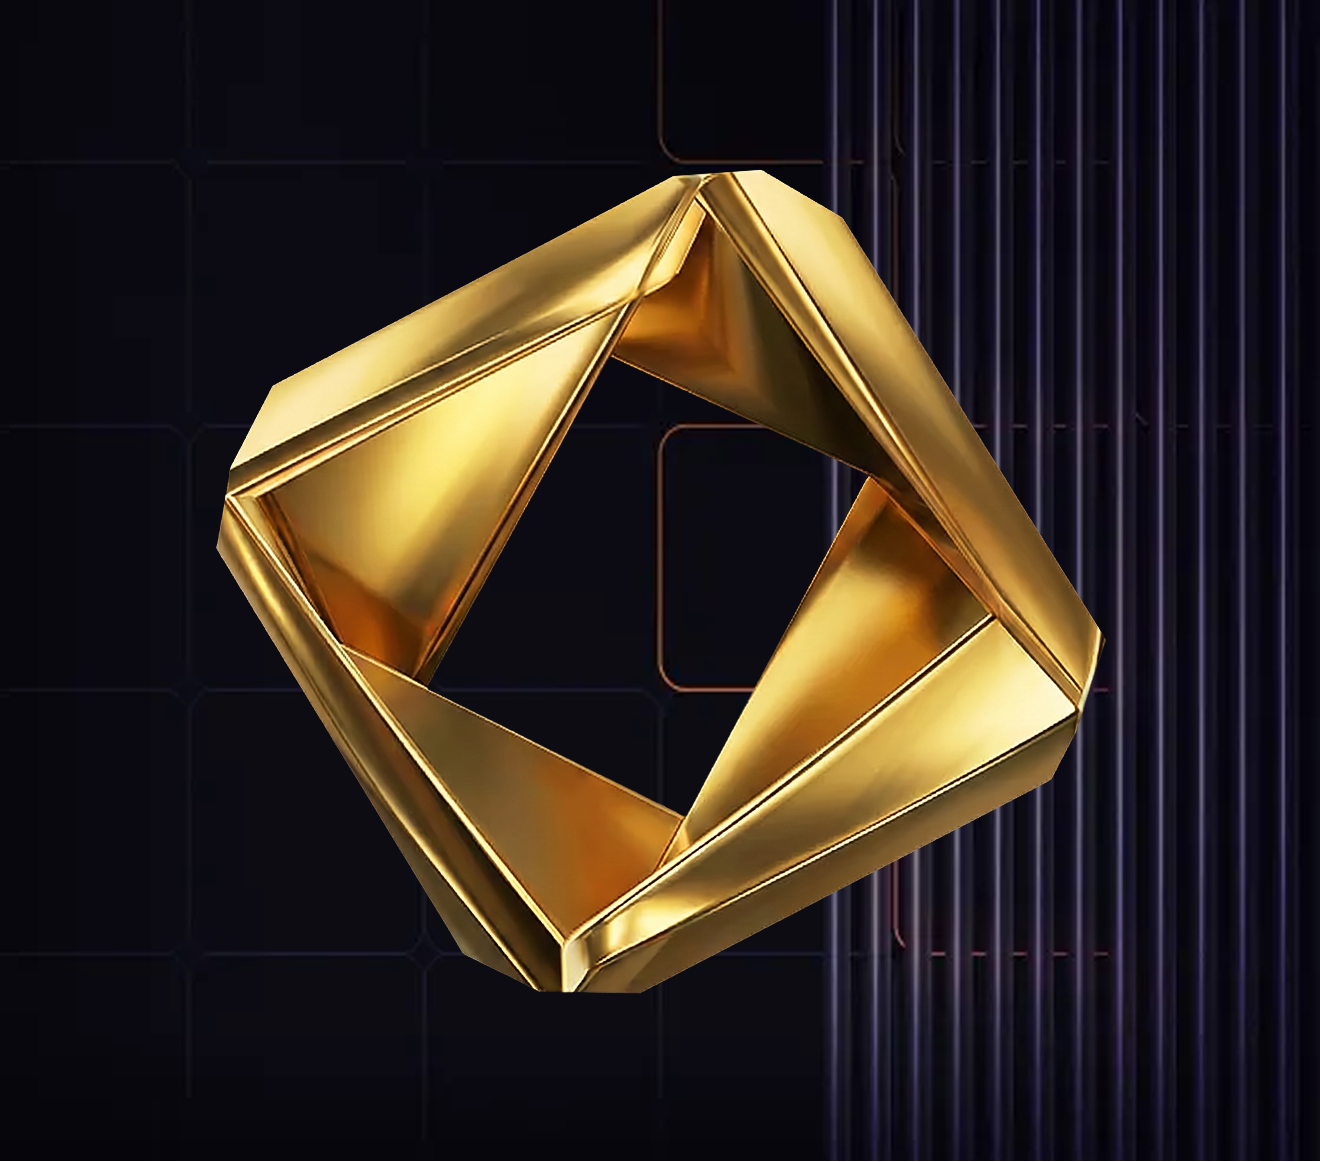
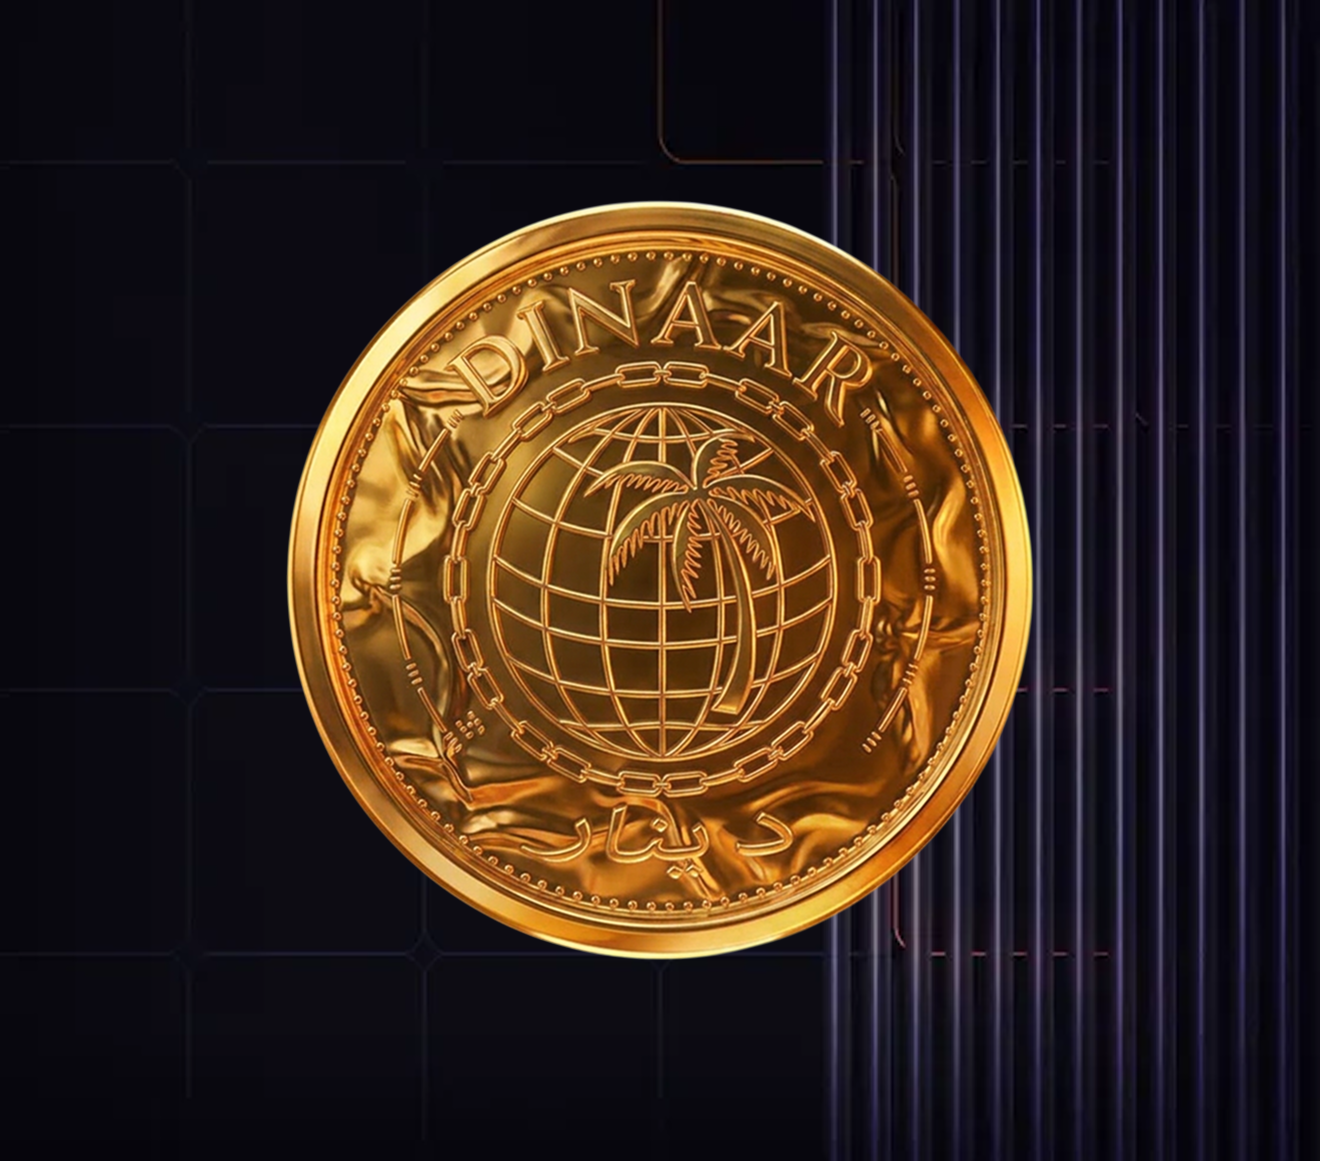
solve issue client shared pdf

Changed region(s): [[0.1553, 0.1239, 0.8386, 0.8675]]

diff --git a/assests/css/style.css b/assests/css/style.css
@@ -3633,7 +3633,7 @@ figure {
 
 .primary-button-hover-text {
     position: absolute;
-    margin-left: -30px;
+    /* margin-left: -30px; */
 }
 
 .line {
@@ -9633,9 +9633,9 @@ figure {
     -webkit-background-clip: text;
     background-clip: text;
     margin-bottom: 30px;
-    font-size: 80px;
+    font-size: 60px;
     font-weight: 500;
-    line-height: 90px;
+    line-height: 69px;
     display: inline-block;
 }
 
@@ -12348,6 +12348,23 @@ figure {
     }
 }
 
+@media screen and (max-width: 768px) {
+    .about-owner-section {
+        flex-direction: column;
+    }
+
+     .secont-bio{
+        text-align: left;
+    }
+
+    .about-owner-section.second  {
+        flex-direction: column-reverse;
+    }
+        .about-owner-section img {
+        max-height: 300px;
+    }
+}
+
 @media screen and (max-width: 767px) {
     h1 {
         letter-spacing: -2px;
@@ -12415,9 +12432,7 @@ figure {
         /* padding-bottom: 80px; */
     }
 
-    .about-owner-section {
-        flex-direction: column;
-    }
+    
 
     .section.features-hv2 {
         padding-top: 80px;
@@ -14021,6 +14036,10 @@ figure {
         margin-bottom: 16px;
         font-size: 32px;
         line-height: 42px;
+    }
+
+    .secont-bio{
+        text-align: left;
     }
 
     .single-history-wrap {

diff --git a/index.html b/index.html
@@ -67,7 +67,7 @@
                     <div class="navbar-button-wrapper">
 
                         <div class="primary-button-wrapper desktop">
-                            <a href="#" data-w-id="3af1c84f-ff74-c014-cb3b-40446b73b1f6"
+                            <a href="/token-economy.html#how-works" data-w-id="3af1c84f-ff74-c014-cb3b-40446b73b1f6"
                                 class="primary-button w-inline-block">
                                 <div class="primary-button-border-wrap">
                                     <div class="primary-button-wrap">
@@ -131,7 +131,8 @@
                                         </div>
                                         <div class="home-banner-button-wrapper">
                                             <div class="primary-button-wrapper desktop">
-                                                <a href="#" data-w-id="3af1c84f-ff74-c014-cb3b-40446b73b1f6"
+                                                <a href="/token-economy.html"
+                                                    data-w-id="3af1c84f-ff74-c014-cb3b-40446b73b1f6"
                                                     class="primary-button w-inline-block">
                                                     <div class="primary-button-border-wrap">
                                                         <div class="primary-button-wrap">
@@ -172,7 +173,8 @@
                                             </div>
                                             <div class="banner-hv2-button-wrapper">
                                                 <div class="primary-button-wrapper">
-                                                    <a href="#" class="inner-button w-inline-block">
+                                                    <a href="/token-economy.html#how-works"
+                                                        class="inner-button w-inline-block">
                                                         <div class="primary-button-border-wrap">
                                                             <div class="inner-button-wrap">
                                                                 <div class="inner-button-text-wrap">
@@ -449,7 +451,7 @@
                         alt="dinnar" class="solving-card-icon" /></div>
                 <div class="solving-card-title-description">
                     <h4 class="solving-card-title">Dinaar Coin</h4>
-                    <p class="coin-box-price-text-green">$0.00822
+                    <p class="coin-box-price-text-green">$144.1044
                     </p>
                 </div>
                 <img src="https://cdn.prod.website-files.com/67d5482886ed2b38b65e6d7c/67d671e683c0ed0c6c685aed_CTA%20Top%20Left%20Element.svg"
@@ -463,7 +465,7 @@
                         class="solving-card-icon" /></div>
                 <div class="solving-card-title-description">
                     <h4 class="solving-card-title">Saya Coin</h4>
-                    <p class="coin-box-price-text-red">$0.00822
+                    <p class="coin-box-price-text-red">$0.1065
                     </p>
                 </div>
                 <img src="https://cdn.prod.website-files.com/67d5482886ed2b38b65e6d7c/67d671e683c0ed0c6c685aed_CTA%20Top%20Left%20Element.svg"
@@ -688,7 +690,7 @@
                             </div>
                             <div class="technology-card-link-block-wrap">
                                 <a data-w-id="5a6e6f53-7d46-84ae-37e1-eea87616bd8d" style="color:rgb(255,255,255)"
-                                    href="#" class="technology-card-link-block w-inline-block">
+                                    href="/token-economy.html" class="technology-card-link-block w-inline-block">
                                     <div style="border-color:rgb(255,255,255)" class="technology-card-link-block-name">
                                         View Token Economy
                                     </div>
@@ -723,7 +725,7 @@
                             </div>
                             <div class="technology-card-link-block-wrap">
                                 <a data-w-id="be800819-9115-04a6-5935-16d78a8dfe3c" style="color:rgb(255,255,255)"
-                                    href="#" class="technology-card-link-block w-inline-block">
+                                    href="/token-economy.html" class="technology-card-link-block w-inline-block">
                                     <div style="border-color:rgb(255,255,255)" class="technology-card-link-block-name">
                                         View Token Economy
                                     </div>
@@ -973,9 +975,8 @@
                 <div class="global-impact">
                     <div class="global-impact-innertext">
                         <h2 class="cta-title">Designed for Global Impact</h2>
-                        <p class="cta-description-text">JWith a strategic presence in Dubai and an international
-                            expansion
-                            roadmap, IIC
+                        <p class="cta-description-text">With a
+                            strategic presence in Dubai and an international expansion roadmap, IIC
                             METAVERSE is built to scale across markets and industries.
                         </p>
                     </div>
@@ -996,7 +997,7 @@
                         </div>
                         <div class="future-step-banner-button-wrapper">
                             <div class="primary-button-wrapper desktop">
-                                <a href="#" data-w-id="3af1c84f-ff74-c014-cb3b-40446b73b1f6"
+                                <a href="/token-economy.html#how-works" data-w-id="3af1c84f-ff74-c014-cb3b-40446b73b1f6"
                                     class="primary-button w-inline-block">
                                     <div>
                                         <div class="primary-button-wrap">
@@ -1388,7 +1389,7 @@
                             <div class="footer-inner-wrap">
                                 <div class="footer-border-wrap first-item v2">
                                     <div class="text-md">
-                                        iiccrypto.com ©2026. All Rights reseverd</div>
+                                        iiccrypto.com ©2026. All Rights Reseverd</div>
                                 </div>
                             </div>
                             <div class="footer-line-wrap">

diff --git a/token-economy.html b/token-economy.html
@@ -109,7 +109,7 @@
                   backing with scalable digital utility—designed to support a sustainable, global ecosystem.</p>
 
                 <div class="primary-button-wrapper margin-top-40">
-                  <a href="#" data-w-id="3af1c84f-ff74-c014-cb3b-40446b73b1f6" class="primary-button w-inline-block">
+                  <a href="#token-modal" data-w-id="3af1c84f-ff74-c014-cb3b-40446b73b1f6" class="primary-button w-inline-block">
                     <div class="primary-button-border-wrap">
                       <div class="primary-button-wrap">
                         <div class="primary-button-text">Explore Token Model</div>
@@ -160,7 +160,7 @@
     </section>
 
 
-    <section class="section core-features-hv2">
+    <section class="section core-features-hv2"  id="explore-ecosystem">
       <div class="container">
         <div data-w-id="1dec1eab-05d3-197b-6879-382967f09dbe" style="opacity:0"
           class="core-features-section-title-wrapper mb45">
@@ -402,7 +402,7 @@
       </div>
     </section>
 
-    <section class="section features-hv2">
+    <section class="section features-hv2" id="token-modal">
       <div class="container scroll-section">
 
 
@@ -446,7 +446,7 @@
       </div>
     </section>
 
-    <section class="how-to-work-section scroll-section">
+    <section class="how-to-work-section scroll-section" id="how-works">
       <div class="container sticky-box">
         <div class="how-to-work-section-wrapper">
           <h2 class="section-title core-features hv2">How the System Works</h2>
@@ -492,7 +492,7 @@
                   </div>
                   <div class="banner-hv2-button-wrapper margin-top-29">
                     <div class="primary-button-wrapper">
-                      <a href="#" class="inner-button w-inline-block">
+                      <a href="https://portal.iicbank.com" target="_blank" class="inner-button w-inline-block">
                         <div class="primary-button-border-wrap">
                           <div class="inner-button-wrap">
                             <div class="inner-button-text-wrap">
@@ -759,7 +759,7 @@
                 <div class="split-wrapper">
                   <div data-w-id="397f5323-a150-55eb-2c9a-bf44f92a9c0f" class="history-content-wrap scroll-animate">
                     <div class="history-details-wrap">
-                      <h2 class="tech-history-title">Institutional Integration</h2>
+                      <h2 class="history-title">Institutional Integration</h2>
                       <p class="history-details token-economic">The IIC METAVERSE ecosystem integrates with
                         institutional financial
                         infrastructure to ensure real-world backing, compliance, and operational integrity.</p>
@@ -794,7 +794,7 @@
                   <div data-w-id="397f5323-a150-55eb-2c9a-bf44f92a9c19"
                     class="history-content-wrap align-right scroll-animate">
                     <div class="history-details-wrap">
-                      <h2 class="tech-history-title">Economic Sustainability</h2>
+                      <h2 class="history-title">Economic Sustainability</h2>
                       <p class="history-details auto token-economic">The IIC METAVERSE token economy is designed with
                         sustainability
                         and
@@ -842,7 +842,7 @@
                 <div class="split-wrapper">
                   <div data-w-id="397f5323-a150-55eb-2c9a-bf44f92a9c29" class="history-content-wrap scroll-animate">
                     <div class="history-details-wrap">
-                      <h2 class="tech-history-title">Global Accessibility</h2>
+                      <h2 class="history-title">Global Accessibility</h2>
                       <p class="history-details token-economic">The IIC METAVERSE ecosystem enables participation across
                         regions, providing access to:</p>
                       <div class="features-list-wrapper margin-top-29">
@@ -892,7 +892,7 @@
             </div>
             <div class="future-step-banner-button-wrapper">
               <div class="primary-button-wrapper desktop">
-                <a href="/" data-w-id="3af1c84f-ff74-c014-cb3b-40446b73b1f6" class="primary-button w-inline-block">
+                <a href="#how-works" data-w-id="3af1c84f-ff74-c014-cb3b-40446b73b1f6" class="primary-button w-inline-block">
                   <div>
                     <div class="primary-button-wrap">
                       <div class="primary-button-text">Join the Ecosystem</div>
@@ -1132,7 +1132,7 @@
               <div class="footer-inner-wrap">
                 <div class="footer-border-wrap first-item v2">
                   <div class="text-md">
-                    iiccrypto.com ©2026. All Rights reseverd</div>
+                    iiccrypto.com ©2026. All Rights Reseverd</div>
                 </div>
               </div>
               <div class="footer-line-wrap">

diff --git a/technology.html b/technology.html
@@ -260,6 +260,7 @@
           <div data-w-id="11fd1aad-2867-06d2-cf81-c01c4da43d04" class="features-flex">
             <div class="features-typography-card">
               <div class="features-typography-card-single">
+                 <h2 class="features-title">Performance & Speed</h2>
                 <div class="tech-feature-wrapper">
                   <div class="tech-inner-ferature">
                     <img src="/assests/images/feature-1-img.svg" />
@@ -473,7 +474,7 @@
                 <div class="split-wrapper">
                   <div data-w-id="397f5323-a150-55eb-2c9a-bf44f92a9c0f" class="history-content-wrap scroll-animate">
                     <div class="history-details-wrap">
-                      <h2 class="tech-history-title">Interoperability & Cross-Chain Capability</h2>
+                      <h2 class="history-title">Interoperability & Cross-Chain Capability</h2>
                       <p class="history-details">The platform is designed to integrate with major blockchain ecosystems
                         such as:</p>
 
@@ -521,7 +522,7 @@
                   <div data-w-id="397f5323-a150-55eb-2c9a-bf44f92a9c19"
                     class="history-content-wrap align-right scroll-animate">
                     <div class="history-details-wrap">
-                      <h2 class="tech-history-title">Real-World Integration Layer</h2>
+                      <h2 class="history-title">Real-World Integration Layer</h2>
                       <p class="history-details auto">The technology stack supports real-world asset integration,
                         enabling:</p>
                       <div class="features-list-wrapper margin-top-29">
@@ -561,7 +562,7 @@
                 <div class="split-wrapper">
                   <div data-w-id="397f5323-a150-55eb-2c9a-bf44f92a9c29" class="history-content-wrap scroll-animate">
                     <div class="history-details-wrap">
-                      <h2 class="tech-history-title">AI Integration</h2>
+                      <h2 class="history-title">AI Integration</h2>
                       <p class="history-details">Artificial intelligence enhances the platform by enabling:</p>
                       <div class="features-list-wrapper margin-top-29">
                         <ul role="list" class="features-list">
@@ -611,7 +612,7 @@
                   <li>Advanced wallet protection mechanisms</li>
                   <li>Multi-layer authentication systems</li>
                   <li>Regular smart contract audits by top firms</li>
-                  <li>CSecure transaction validation protocols </li>
+                  <li>Secure transaction validation protocols </li>
                 </ul>
               </div>
             </div>
@@ -647,7 +648,7 @@
                     <p>Siemens</p>
                   </div>
                 </div>
-                <p class="features-capabilities-text">Purpose::</p>
+                <p class="features-capabilities-text">Purpose:</p>
                 <ul role="list" class="tech-features-list">
                   <li>Physical verification of transactions</li>
                   <li>Enhanced protection against unauthorized access</li>
@@ -864,7 +865,7 @@
             </div>
             <div class="future-step-banner-button-wrapper">
               <div class="primary-button-wrapper desktop">
-                <a href="/" data-w-id="3af1c84f-ff74-c014-cb3b-40446b73b1f6" class="primary-button w-inline-block">
+                <a href="/token-economy.html#explore-ecosystem" data-w-id="3af1c84f-ff74-c014-cb3b-40446b73b1f6" class="primary-button w-inline-block">
                   <div>
                     <div class="primary-button-wrap">
                       <div class="primary-button-text">Explore Ecosystem</div>
@@ -1104,7 +1105,7 @@
               <div class="footer-inner-wrap">
                 <div class="footer-border-wrap first-item v2">
                   <div class="text-md">
-                    iiccrypto.com ©2026. All Rights reseverd</div>
+                    iiccrypto.com ©2026. All Rights Reseverd</div>
                 </div>
               </div>
               <div class="footer-line-wrap">

diff --git a/about-us.html b/about-us.html
@@ -207,7 +207,7 @@
                   </div>
                 </div>
                 <hr style="border: 1px solid #FFFFFF1F; width: 100%;" />
-                <div class="about-owner-section">
+                <div class="about-owner-section second">
                   <div>
                     <div class="section-subtitle-wrapper secont-bio">
                       <div class="section-subtitle ">[ Technology Leadership ]</div>
@@ -423,7 +423,7 @@
               </div>
               <div class="banner-hv2-button-wrapper">
                 <div class="primary-button-wrapper">
-                  <a href="/" class="inner-button w-inline-block">
+                  <a href="/token-economy.html" class="inner-button w-inline-block">
                     <div class="primary-button-border-wrap">
                       <div class="inner-button-wrap">
                         <div class="inner-button-text-wrap">
@@ -646,7 +646,7 @@
               <div class="footer-inner-wrap">
                 <div class="footer-border-wrap first-item v2">
                   <div class="text-md">
-                    iiccrypto.com ©2026. All Rights reseverd</div>
+                    iiccrypto.com ©2026. All Rights Reseverd</div>
                 </div>
               </div>
               <div class="footer-line-wrap">

diff --git a/contact-us.html b/contact-us.html
@@ -305,7 +305,7 @@
 
           <div class="global-impact container margin-top-29">
             <div class="global-impact-innertext">
-              <p class="cta-description-text contact">JIIC METAVERSE operates as part of an international ecosystem with
+              <p class="cta-description-text contact">IIC METAVERSE operates as part of an international ecosystem with
                 a
                 strategic presence in
                 key global markets.
@@ -462,7 +462,7 @@
               <div class="footer-inner-wrap">
                 <div class="footer-border-wrap first-item v2">
                   <div class="text-md">
-                    iiccrypto.com ©2026. All Rights reseverd</div>
+                    iiccrypto.com ©2026. All Rights Reseverd</div>
                 </div>
               </div>
               <div class="footer-line-wrap">

diff --git a/assests/css/style2.css b/assests/css/style2.css
@@ -1092,6 +1092,8 @@ body {
     margin-top: 40px;
     margin-right: 12px;
     margin-left: 40px;
+
+    object-fit: cover;
 }
 
 .slider-content {